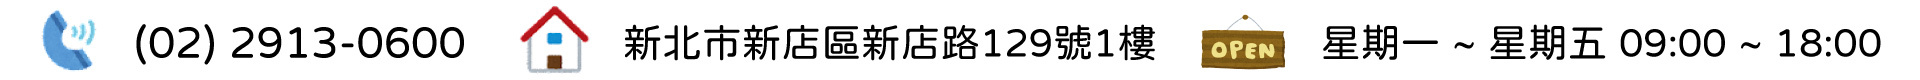
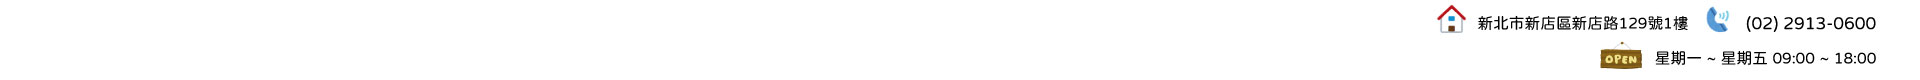
0817-2
0817-2

Changed region(s): [[0.0, 0.075, 1.0, 0.925], [0.625, 0.2, 0.6562, 0.25]]

diff --git a/index.html b/index.html
@@ -101,7 +101,12 @@
       <span class="visually-hidden">Next</span>
     </button>
   </div>
-
+  <div class="col-12 main ">
+    <div>
+      <img src="img/info.jpg" class="img-fluid" alt="">
+    </div>
+  </div>
+  
   <!-- <div class="col-12 menu">
     <div class="container-fluid">
       <ul class="navbar-nav">
